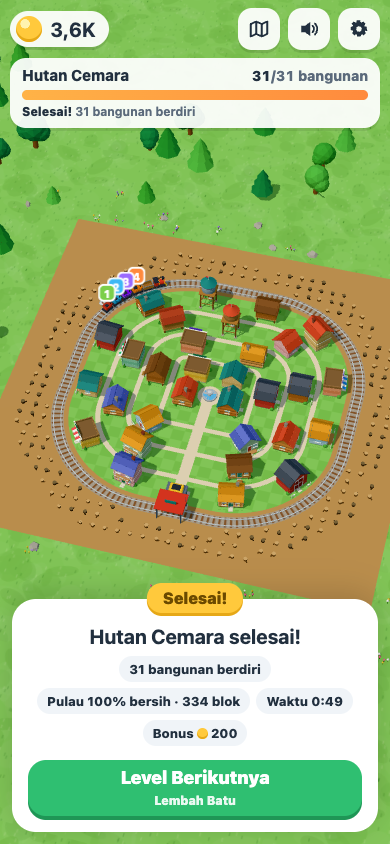
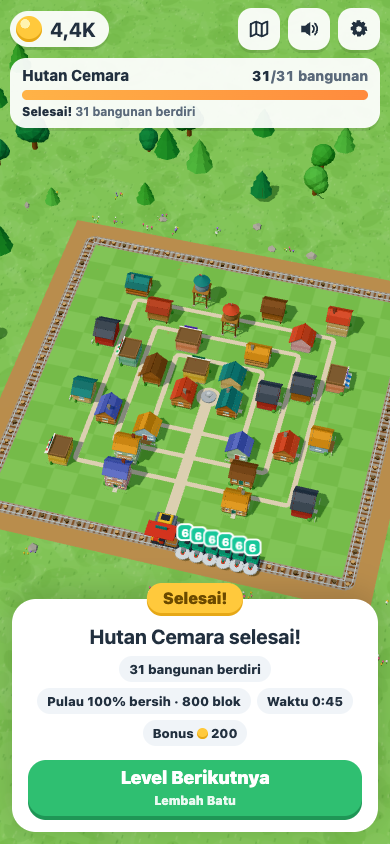
perbarui README dan screenshot untuk rel lurus-siku dan kontrol tap/tahan

diff --git a/README.md b/README.md
@@ -2,7 +2,7 @@
 
 Game web 3D idle/clicker satu tangan (Vite + TypeScript + Three.js), mengikuti gaya *Train Miner: Idle Railway* (Flexus/Azur Games) dengan satu perbedaan besar: **hasil tebangan tidak dijual, tetapi dipakai membangun kota**.
 
-Sebuah kereta berputar di rel cincin yang mengelilingi pulau hutan voxel. Susunannya lokomotif, satu gerbong muatan, lalu gerbong pemotong. Tiap pemotong menjulurkan lengan ke kiri, ke arah hutan, dan gerinda horizontal di ujungnya menempel ke satu pohon atau batu sampai tumbang. Muatan dibongkar di stasiun dan langsung dipasang ke bangunan kota di tengah pulau. **Setiap bahan yang terpasang menjadi koin**, dan itulah satu-satunya sumber uang. Begitu hutan di luar rel bersih, rel melebar sendiri ke hutan berikutnya dan lahan bekasnya menjadi distrik kota baru. Level selesai saat kota jadi dan pulau bersih 100%.
+Pulau berupa hutan voxel persegi yang tersusun rapi dalam baris-baris, dengan kota kecil di tengahnya. Sebuah kereta (lokomotif, satu gerbong muatan, lalu gerbong pemotong) berjalan di rel yang mengelilingi kota, **hanya selama pemain menahan atau mengetuk layar**. Gerinda horizontal yang menempel di sisi kiri tiap pemotong menggerus blok di baris terdepan. Begitu sepotong baris hancur, **rel di situ langsung maju satu baris**. Rel selalu lurus dengan belokan siku, jadi batu keras yang belum hancur dikitari dengan belokan berbentuk L. Muatan dibongkar di stasiun dan langsung dipasang ke bangunan kota di belakang rel. **Setiap bahan yang terpasang menjadi koin**, dan itulah satu-satunya sumber uang. Level selesai saat kota jadi dan pulau bersih 100%.
 
 Semua visual dibuat prosedural dengan geometri Three.js, dan semua suara disintesis dengan Web Audio. Tidak ada aset eksternal, backend, login, iklan, atau pembayaran.
 
@@ -27,7 +27,7 @@ Butuh Node 18+ dan browser dengan WebGL. Tambahkan `?frame=390x844` pada URL unt
 
 | Aksi | Sentuh / mouse | Keyboard |
 | --- | --- | --- |
-| Ngebut (boost) | Ketuk area dunia untuk dorongan singkat, tahan untuk mempertahankan (±7 dtk, lalu isi ulang) | Tahan `Spasi` |
+| Jalan | Tahan area dunia supaya kereta jalan; ketuk untuk maju sebentar. Tanpa sentuhan kereta diam. | Tahan `Spasi` |
 | Geser kamera | Seret jari/mouse di area dunia (kamera kembali mengikuti kereta setelah ±3,5 dtk) | — |
 | Zoom | Cubit dua jari / scroll mouse | — |
 | Lihat seluruh pulau | Tombol peta di kanan atas | `O` |
@@ -37,17 +37,17 @@ Butuh Node 18+ dan browser dengan WebGL. Tambahkan `?frame=390x844` pada URL unt
 | Gerbong muatan lebih besar | **Kapasitas** | `C` |
 | Level berikutnya | Tombol di panel selesai | `Enter` |
 
-Ketukan pada tombol HUD tidak memicu boost. Seretan lebih dari 12 px otomatis berubah dari boost menjadi geser kamera.
+Ketukan pada tombol HUD tidak menjalankan kereta. Seretan lebih dari 12 px otomatis berubah dari jalan menjadi geser kamera.
 
 ## Loop permainan
 
-1. **Menebang.** Tiap pemotong memilih blok hidup terdekat di sisi kiri rel (sisi hutan) dalam jangkauan lengannya, lalu gerinda menempel dan memotong sampai blok tumbang. Satu pemotong mengerjakan satu blok sekaligus. Pohon hijau, emas, dan merah menghasilkan kayu, batu menghasilkan batu, dan kristal menghasilkan permata. Hasilnya terbang ke gerbong muatan di belakang lokomotif.
-2. **Muatan penuh.** Saat gerbong muatan penuh, semua lengan terlipat dan label di atas kereta berubah menjadi **PENUH**. Blok yang sudah tumbang tetapi tidak muat ditahan di ambang tumbang sampai muatan dibongkar, sehingga tidak ada bahan yang hilang.
-3. **Membangun.** Setiap kali lewat stasiun, seluruh muatan dibongkar ke gudang dan langsung dipasang ke bangunan kota yang terbuka (isi-dulu, berurutan). Nilai bahan: kayu 1, batu 2, permata 5 poin. Setiap poin yang terpasang memberi 1 koin, dan bangunan yang selesai memberi bonus. Modul bangunan berubah dari ghost menjadi solid (fondasi → dinding → bukaan → atap → detail).
-4. **Upgrade.** **Pemotong** menambah pemotong Lv1 di ujung kereta. **Gabung** menyatukan dua pemotong setingkat menjadi satu pemotong dengan lengan lebih panjang dan gerinda lebih besar dan cepat. **Kecepatan** mempercepat kereta, dan **Kapasitas** memperbesar gerbong muatan.
-5. **Rel melebar sendiri.** Begitu pita hutan di luar rel bersih 100%, rel bergeser keluar menjadi cincin yang lebih besar (dengan animasi), stasiun ikut pindah, dan lahan bekasnya menjadi distrik kota berikutnya. Bahan yang menunggu di gudang langsung dipasang ke distrik baru. Tidak ada tombol maupun biaya, sehingga permainan tidak mungkin macet.
-6. **Hutan tidak tumbuh lagi.** Total bahan di hutan sama persis dengan total biaya kota, jadi pulau bersih dan kota jadi terjadi bersamaan.
-7. Level selesai saat semua bangunan berdiri dan pulau bersih. Muncul confetti, kamera menyorot seluruh pulau, bonus diberikan, lalu tombol **Level Berikutnya** muncul.
+1. **Jalan.** Kereta hanya bergerak selama layar ditahan (atau sebentar setelah diketuk). Gerinda hanya berputar dan memotong saat kereta bergerak.
+2. **Menebang.** Tiap pemotong menggerus satu blok yang disentuh gerindanya, di sisi kiri rel (sisi hutan). Pohon hijau tumbang dalam sekali lewat, sedangkan pohon emas, pohon merah, batu, dan kristal butuh beberapa kali lewat atau beberapa pemotong. Hasilnya terbang ke gerbong muatan di belakang lokomotif.
+3. **Rel maju.** Rel selalu lewat satu sel di depan baris terdepan. Begitu minimal 3 blok berjejer hancur, rel di situ maju satu baris lewat dua belokan siku. Blok keras yang tersisa dikitari rel dengan belokan L, lalu rel lurus lagi setelah bloknya hancur. Rel hanya pernah maju keluar. Kalau ada blok yang sampai terkurung di dalam rel, pekerja kota membongkarnya otomatis ke gudang.
+4. **Muatan penuh.** Saat gerbong muatan penuh, gerinda berhenti dan label di atas kereta berubah menjadi **PENUH**. Blok yang sudah tumbang tetapi tidak muat ditahan sampai muatan dibongkar, sehingga tidak ada bahan yang hilang.
+5. **Membangun.** Setiap kali lewat stasiun, seluruh muatan dibongkar ke gudang dan langsung dipasang ke bangunan kota yang sudah terbuka (isi-dulu, berurutan). Kavling terbuka begitu rel sudah melewatinya dengan jarak aman. Nilai bahan: kayu 1, batu 2, permata 5 poin. Setiap poin yang terpasang memberi 1 koin, dan bangunan yang selesai memberi bonus. Modul bangunan berubah dari ghost menjadi solid (fondasi → dinding → bukaan → atap → detail).
+6. **Upgrade.** **Pemotong** menambah pemotong Lv1 di ujung kereta. **Gabung** menyatukan dua pemotong setingkat menjadi satu pemotong dengan gerinda lebih besar dan lebih cepat. **Kecepatan** mempercepat kereta, dan **Kapasitas** memperbesar gerbong muatan.
+7. **Hutan tidak tumbuh lagi.** Total bahan di hutan sama persis dengan total biaya kota, jadi pulau bersih dan kota jadi terjadi bersamaan. Muncul confetti, kamera menyorot seluruh pulau, bonus diberikan, lalu tombol **Level Berikutnya** muncul.
 
 ## Konten
 
@@ -56,21 +56,20 @@ Ketukan pada tombol HUD tidak memicu boost. Seretan lebih dari 12 px otomatis be
 | 1 · Hutan Cemara | Hutan | Kayu | Alun-alun, Kampung Cemara, Kampung Pinus, Kampung Jati | Rumah kayu, rumah papan, warung, rumah panggung, lumbung, rumah loteng, menara air |
 | 2 · Lembah Batu | Padang | Bata | Alun-alun Batu, Blok Granit, Blok Marmer, Blok Andesit | Rumah bata, toko roti, ruko, rumah bata tingkat, apartemen, menara jam |
 
-Masing-masing level berisi 4 cincin rel dan 31 bangunan (4 / 6 / 9 / 12 per distrik). Hutan makin jauh makin keras: pohon hijau di dekat pusat, lalu pohon emas, lalu pohon merah dengan batu dan kristal. Setelah level 2, permainan berputar kembali ke level 1 dengan koin dan harga upgrade yang lebih tinggi. Upgrade kereta direset di setiap level baru, sedangkan uang tetap dibawa.
+Masing-masing level berisi 10 baris hutan (800 blok, dibagi 4 pita) dan 31 bangunan (4 / 6 / 9 / 12 per distrik). Hutan makin jauh makin keras: pohon hijau di dekat pusat, lalu pohon emas, lalu pohon merah dengan batu dan kristal. Setelah level 2, permainan berputar kembali ke level 1 dengan koin dan harga upgrade yang lebih tinggi. Upgrade kereta direset di setiap level baru, sedangkan uang tetap dibawa.
 
 ## Angka awal (Level 1)
 
 | Parameter | Nilai |
 | --- | --- |
-| Kereta awal | lokomotif + gerbong muatan + 1 pemotong Lv1; kecepatan 3,4 u/dtk (+10% per level); muatan 20 (×1,3 per level) |
-| Pemotong | 3,5 dmg/dtk pada satu blok, ×1,8 per tingkat; lengan 3,8 (+0,3 per tingkat) |
+| Kereta awal | lokomotif + gerbong muatan + 1 pemotong Lv1; kecepatan 3,4 u/dtk (+10% per level); muatan 26 (×1,3 per level) |
+| Pemotong | 10 dmg/dtk pada satu blok yang disentuh gerinda, ×1,6 per tingkat; jangkauan gerinda 0,95 (+0,1 per tingkat) |
 | Blok | pohon 2 HP → 2 kayu · pohon emas 4 → 3 · pohon merah 7 → 5 · batu 6 → 3 batu · kristal 12 → 1 permata |
 | Koin | 1 per poin bahan terpasang; bonus bangunan selesai 30% biayanya; bonus level 200 |
 | Pemotong / Gabung / Kecepatan / Kapasitas | 10 / 15 / 20 / 20, lalu ×1,55 / ×1,45 / ×1,6 / ×1,6 (Level 2 ×2,5) |
-| Rel | cincin pertama setengah lebar 4,25; tiap cincin berikutnya +2,5 |
-| Hutan | 665 blok, 2.759 poin bahan; biaya bangunan 66–167 poin |
+| Pulau | rel awal persegi setengah lebar 4,5; hutan 10 baris (800 blok, 3.299 poin bahan); biaya bangunan 71–238 poin |
 
-Hasil `npm run balance` (bot tanpa boost yang membeli upgrade termurah yang masuk akal): tebangan pertama di detik ke-1, bongkar muatan pertama ±9 dtk, rumah pertama jadi ±37 dtk. Rel melebar pada ±93 dtk, ±186 dtk, dan ±309 dtk. Level 1 selesai ±6,8 menit dan Level 2 ±7,5 menit.
+Hasil `npm run balance` (bot yang terus menahan layar dan membeli upgrade termurah yang masuk akal): tebangan pertama di detik ke-0, bongkar muatan pertama ±11 dtk, rumah pertama jadi ±36 dtk. Level 1 dan Level 2 masing-masing selesai ±7,9 menit.
 
 Semua angka global ada di `src/config/balance.ts`. Level, cincin, distrik, bobot bangunan, dan jenis blok per pita ada di `src/config/levels.ts`. Tipe bangunan ada di `src/config/buildings/`.
 
@@ -80,39 +79,61 @@ Semua angka global ada di `src/config/balance.ts`. Level, cincin, distrik, bobot
 src/
   config/        balance.ts, levels.ts (cincin, distrik & bobot bangunan, blok per pita), buildings/ (generator bangunan)
   game/          logika murni, tanpa Three.js/DOM, dapat diuji di Node
-    layout.ts      jarak bertanda ke rel pertama → pita hutan, jalur rel tiap tahap, posisi kavling & stasiun
-    track.ts       TrackPath (poligon bersudut bulat), computeCrossings, StageMapping
-    tracks.ts      cache lintasan per level/tahap + pemetaan saat rel melebar
-    worldgen.ts    grid hutan 1×1 (seed tetap): jenis blok per pita, sel rel, sel per pita
-    sim.ts         boost, gerak kereta, pemotong (satu target), bongkar & pasang, rel melebar, level selesai
+    layout.ts      jarak Chebyshev ke rel awal → pita hutan, cincin kavling persegi & posisi kavling
+    rail.ts        rel dinamis: lahan bersih → opening 3×3 → keliling lurus-siku lewat pusat sel
+    track.ts       TrackPath (poligon bersudut bulat, radius per sudut), computeCrossings, StageMapping
+    worldgen.ts    grid hutan 1×1 rapat (seed tetap): jenis blok per pita
+    sim.ts         kontrol tap/tahan, gerak kereta, pemotong (satu target), rel maju, bongkar & pasang, level selesai
     actions.ts     tambah pemotong, gabung, kecepatan, kapasitas, level berikutnya
     economy.ts     rumus, kalibrasi biaya bangunan dari hasil hutan, progres
     save.ts        save/load (skema v4) + validasi + cadangan save rusak
   render/        world.ts, forestView (InstancedMesh per jenis blok), trainView (lokomotif, gerbong muatan,
-                 pemotong dengan lengan & gerinda), cityView (tanah kota, jalan, air mancur), trackView (rel + morph),
+                 pemotong dengan gerinda di sisi kiri), cityView (tanah kota per sel, jalan, air mancur), trackView (rel + morph),
                  plotView, buildingView (ghost/solid), environment, effects, labels, cameraRig
   audio/sfx.ts   synthesizer Web Audio (dengung gerinda, tebang, bongkar, koin; compressor & batas voice)
   ui/            hud.ts, tutorial.ts, format.ts
-  app.ts         loop, event → render/audio/HUD, input (boost, geser, cubit), autosave
+  app.ts         loop, event → render/audio/HUD, input (tahan/tap untuk jalan, geser, cubit), autosave
 ```
 
-Semua cincin rel adalah offset dari rel pertama, sehingga satu fungsi jarak bertanda menentukan pita hutan, jalur rel, dan cincin kavling. Batas pita digeser sejauh setengah lebar koridor rel, jadi rel berikutnya selalu diletakkan di lahan yang sudah bersih. Kereta adalah satu jarak skalar di loop. Stasiun (jarak 0) dianggap dilewati jika berada di interval setengah-terbuka `(prev, prev+move]`, sehingga boost tidak bisa melompatinya dan tidak ada pemicu ganda. Saat rel melebar, `StageMapping` memetakan posisi kereta secara proporsional dengan stasiun sebagai titik bersama.
+Rel tidak disimpan, melainkan selalu dihitung dari blok yang masih hidup. Langkahnya:
+
+1. Ambil lahan bebas yang tersambung ke pusat.
+2. Buka dengan kotak 3×3, sehingga tonjolan selebar 1–2 sel diabaikan.
+3. Ambil komponen pusat dan isi lubangnya.
+4. Rel adalah keliling lahan itu yang lewat pusat sel-sel tepinya. Bentuknya selalu lurus dengan belokan siku. Belokan ke arah kota diberi lengkung kecil, dan belokan ke arah hutan lebih rapat supaya tidak menyerempet blok.
+
+Karena blok hanya bisa hancur, lahan di dalam rel hanya bisa membesar. Kereta adalah satu jarak skalar di loop. Stasiun (jarak 0, tengah sisi bawah) dianggap dilewati jika berada di interval setengah-terbuka `(prev, prev+move]`, sehingga tidak bisa terlompati dan tidak ada pemicu ganda. Saat rel berubah, bagian rel yang sama dipetakan 1:1, sehingga kereta tidak meloncat.
 
 ## Menambah level / bangunan
 
 1. **Tipe bangunan baru**: tambahkan entri di `BUILDINGS` pada `src/config/buildings/index.ts`. Pakai generator parametrik `house()` (dinding log/papan/bata, 1–4 lantai, atap pelana/datar, panggung, kanopi, balkon, papan nama), atau tulis generator sendiri seperti `waterTower()`.
-2. **Level baru**: salin satu objek di `LEVELS` (`src/config/levels.ts`). Isi `ringStart`, `ringStep`, `cornerRadius`, `districts` (satu per cincin; kavling `L(tipe, varian, bobot)`), `bands` (bobot jenis blok per cincin), dan `seed`. Biaya bangunan tidak perlu ditulis karena dihitung otomatis dari hasil pita hutan distriknya.
-3. Jalankan `npm test`. `tests/layout.test.ts` otomatis memeriksa bahwa setiap blok terjangkau lengan pemotong Lv1 dari sisi kiri rel pitanya, rel berikutnya hanya melewati pita sebelumnya, kavling tidak saling menimpa dan tidak menimpa rel, dan biaya tiap distrik sama dengan hasil pita hutannya.
+2. **Level baru**: salin satu objek di `LEVELS` (`src/config/levels.ts`). Isi `ringStart`, `ringStep` (lebar pita), `districts` (satu per pita; kavling `L(tipe, varian, bobot)`), `bands` (bobot jenis blok per pita), dan `seed`. Biaya bangunan tidak perlu ditulis karena dihitung otomatis dari hasil pita hutan distriknya.
+3. Jalankan `npm test`. `tests/layout.test.ts` dan `tests/rail.test.ts` otomatis memeriksa bahwa:
+   - hutan rapat berbaris;
+   - rel awal persegi dan menempel ke baris pertama;
+   - kavling tidak saling menimpa, alun-alun sudah di dalam rel, dan semua kavling terbuka saat hutan habis;
+   - biaya tiap distrik sama dengan hasil pita hutannya.
 
 ## Pengujian
 
-`npm test` menjalankan 40 tes:
+`npm test` menjalankan 43 tes:
 
-- **Crossing**: wrap di ujung loop, boost/langkah besar, dan jumlah pemicu yang sama untuk berbagai ukuran langkah.
-- **Tata letak**: jangkauan pemotong, rel di lahan bersih, kavling (uji sumbu pemisah), dan kalibrasi biaya untuk kedua level.
-- **Pemotong**: hanya memotong di kiri dalam jangkauan, satu blok per pemotong, muatan tidak melebihi kapasitas, susunan kereta, dan hutan tidak tumbuh kembali.
-- **Stasiun & kota**: tidak ada yang dijual, isi-dulu dengan bonus, gudang menunggu distrik baru, dan uang hanya dari membangun.
-- **Rel melebar**: otomatis saat pita bersih, posisi kereta dan muatan terjaga, serta berhenti di cincin terakhir.
+- **Rel**:
+  - rel awal persegi;
+  - 1–2 blok hancur tidak mengubah rel, sedangkan 3 blok berjejer membuat rel maju dengan belokan siku;
+  - batu keras dikitari lalu rel lurus lagi;
+  - rel hanya maju dan menjaga jarak dari blok;
+  - blok terkurung dibongkar otomatis;
+  - posisi kereta terjaga dan kavling terbuka saat rel lewat.
+- **Crossing**: wrap di ujung loop, langkah besar, dan jumlah pemicu yang sama untuk berbagai ukuran langkah.
+- **Tata letak**: baris hutan, kavling (uji sumbu pemisah), dan kalibrasi biaya untuk kedua level.
+- **Kontrol & pemotong**:
+  - tanpa input kereta diam dan tidak ada yang terpotong;
+  - tap memajukan kereta sebentar, tahan membuatnya jalan terus;
+  - gerinda hanya menggerus blok di kiri yang disentuhnya, satu blok per pemotong;
+  - muatan tidak melebihi kapasitas;
+  - hutan tidak tumbuh kembali.
+- **Stasiun & kota**: tidak ada yang dijual, isi-dulu dengan bonus, gudang menunggu kavling berikutnya, dan uang hanya dari membangun.
 - **Kekekalan bahan**: hutan + muatan + gudang + terpasang selalu sama dengan total hasil hutan; level selesai hanya saat kota jadi dan pulau bersih.
 - **Aksi & save/load**: upgrade, level berikutnya dan putaran ulang, round-trip, save rusak atau versi lama, dan clamp nilai.
-- **Pacing**: bot memainkan kedua level sampai selesai tanpa softlock, dengan rel melebar 3× per level.
+- **Pacing**: bot memainkan kedua level sampai selesai tanpa softlock.
